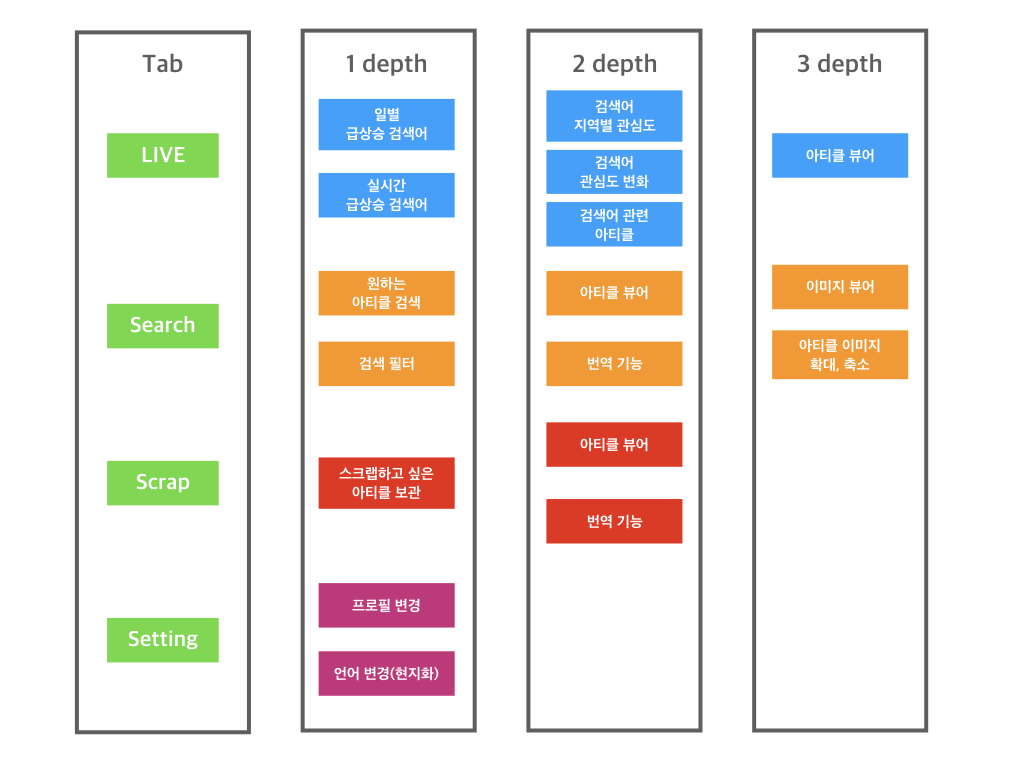
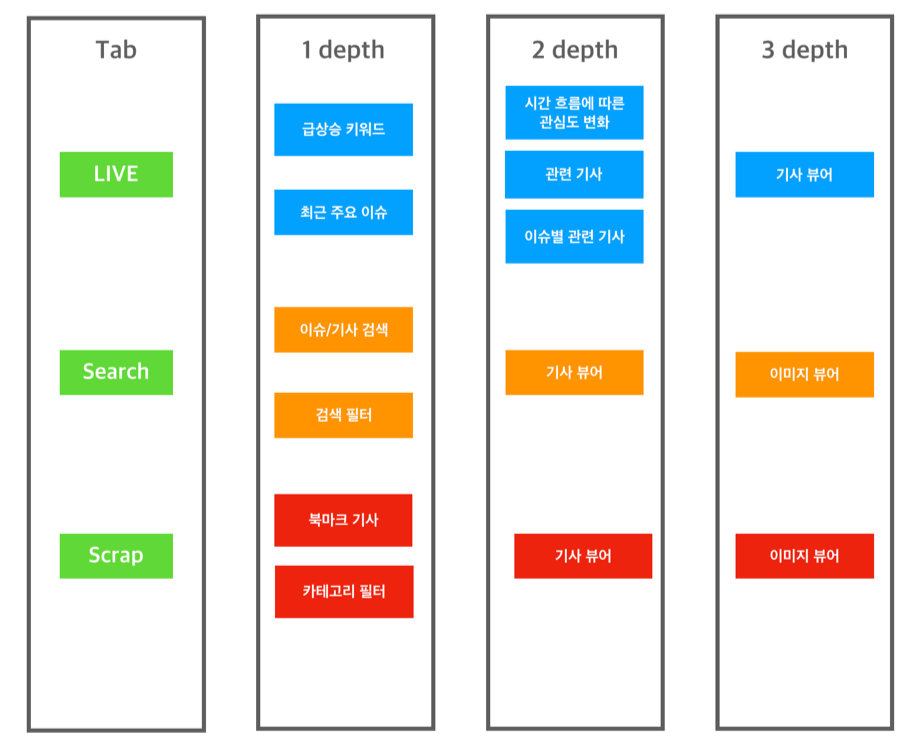
Update : README.md

diff --git a/README.md b/README.md
@@ -11,18 +11,24 @@
 ## GROUND RULE
 
 * 공통된 코드 컨벤션을 사용합니다.
-  - [Wiki](https://github.com/boostcamp3-iOS/team-a1/wiki/Swift-Style-Guide)에 정의하였습니다.
+- [Wiki](https://github.com/boostcamp3-iOS/team-a1/wiki/Swift-Style-Guide)에 정의하였습니다.
 * 코드의 효율성을 증대시킵니다.
-  - 재사용 가능한 부분에 대해서는 모듈로 활용하여 사용합니다.
-  - PR에 대한 코멘트를 활용하여 서로의 코드를 적극적으로 리뷰합니다.
+- 재사용 가능한 부분에 대해서는 모듈로 활용하여 사용합니다.
+- PR에 대한 코멘트를 활용하여 서로의 코드를 적극적으로 리뷰합니다.
 * 대화를 통한 적극적인 피드백을 주고받습니다.
-  - 매일 아침 10시부터 데일리 스크럼을 통해 어제 한 작업을 공유하고 오늘 해야할 작업을 명확하게 설정합니다.
+- 매일 아침 10시부터 데일리 스크럼을 통해 어제 한 작업을 공유하고 오늘 해야할 작업을 명확하게 설정합니다.
 
 ## 기능 트리
-![](./image/functionTree.png)
+![](./image/functiontree.png)
 
 ## 현재까지 작업한 뷰
 
-> Search
+> LIVE
+![](./image/스크린샷1.png)
+![](./image/스크린샷2.png)
+![](./image/스크린샷3.png)
 
-![](./image/Search.png)
+> SEARCH
+
+![](./image/스크린샷1.png)
+![](./image/스크린샷1.png)
